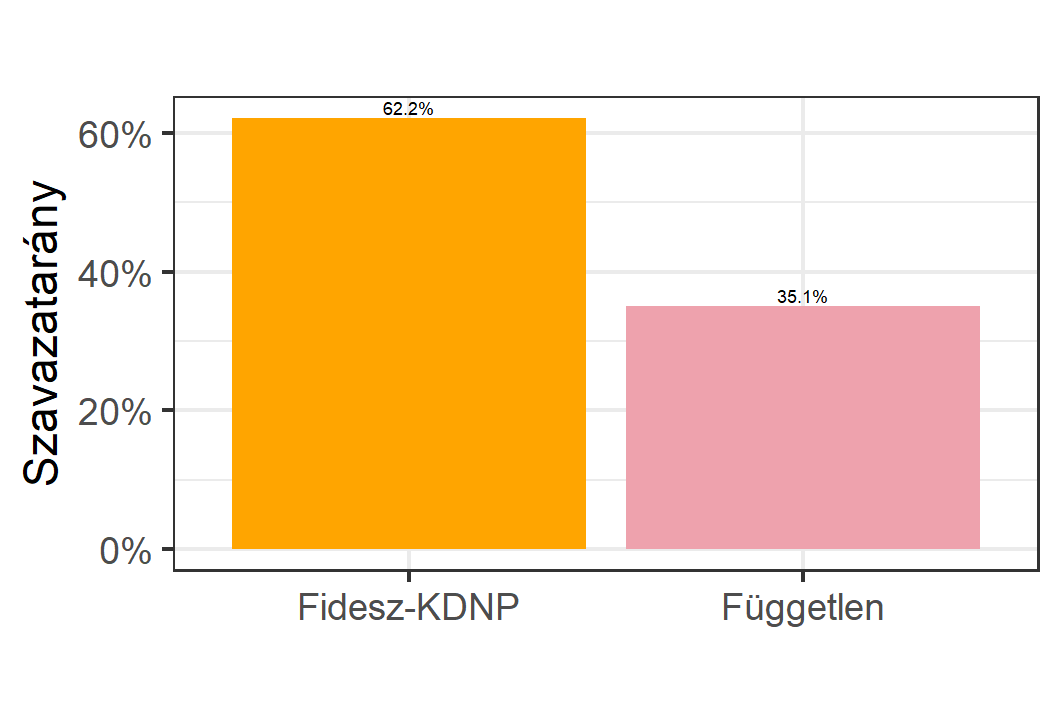
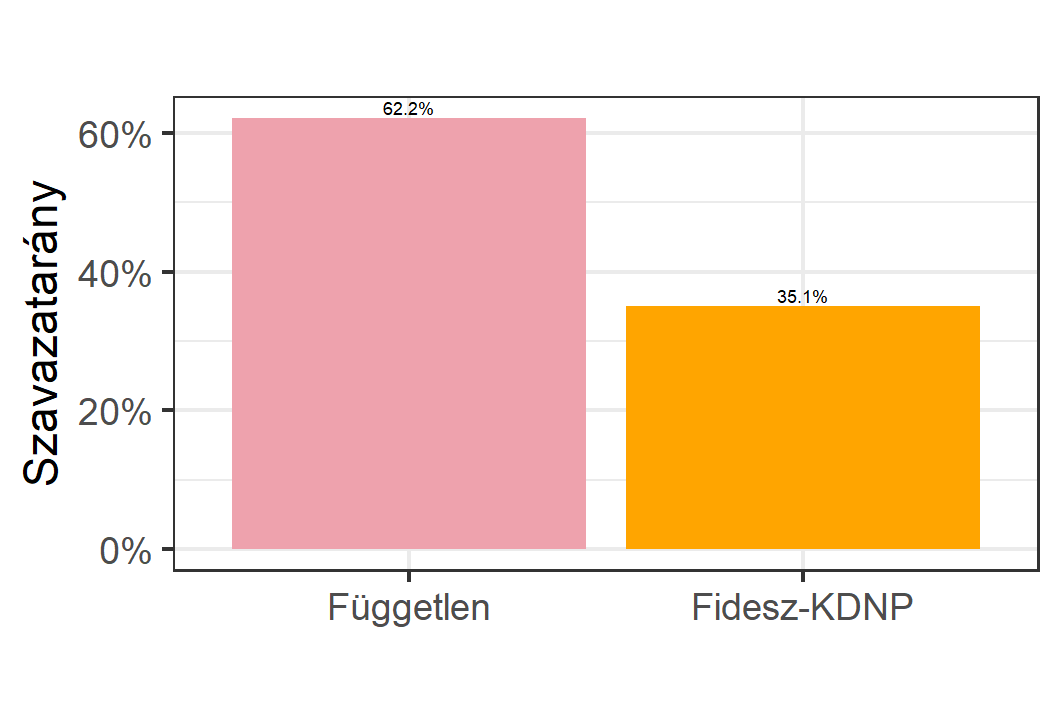
siofok fix

diff --git a/_layouts/home.html b/_layouts/home.html
@@ -237,7 +237,7 @@ layout: default
 <tr class="orange accent-1"><td width="20%"><a href="../sarvar">Sárvár</td><td width="40%">Kondora István - Fidesz-KDNP</td><td>6</td><td>2</td></tr>
 <tr class="orange accent-1"><td width="20%"><a href="../satoraljaujhely">Sátoraljaújhely</td><td width="40%">Szamosvölgyi Péter István - Fidesz-KDNP</td><td>8</td><td>0</td></tr>
 <tr class="pink lighten-5"><td width="20%"><a href="../siklos">Siklós</td><td width="40%">Dr. Marenics János - Független</td><td>4</td><td>4</td></tr>
-<tr class="orange accent-1"><td width="20%"><a href="../siofok">Siófok</td><td width="40%">Dr. Balázs Árpád - Fidesz-KDNP</td><td>7</td><td>1</td></tr>
+<tr class="pink lighten-5"><td width="20%"><a href="../siofok">Siófok</td><td width="40%">Dr. Balázs Róbert - Független</td><td>7</td><td>1</td></tr>
 <tr class="orange accent-1"><td width="20%"><a href="../solymar">Solymár</td><td width="40%">Dr. Szente Kálmán - Fidesz-KDNP</td><td>8</td><td>0</td></tr>
 <tr class="orange accent-1"><td width="20%"><a href="../szarvas">Szarvas</td><td width="40%">Babák Mihály - Fidesz-KDNP</td><td>7</td><td>1</td></tr>
 <tr class="deep-purple lighten-4"><td width="20%"><a href="../szazhalombatta">Százhalombatta</td><td width="40%">Vezér Mihály - ÉSZKE</td><td>2</td><td>6</td></tr>

diff --git a/siofok.md b/siofok.md
@@ -26,13 +26,13 @@ permalink: /siofok
               <tbody>
              <tr>
                    <td>Dr. Balázs Árpád - Fidesz-KDNP <img src="images/fideszkdnp_logo.png" style="width:55px;height:30px;"></td>
-				   <td id="fidesz_mayor">62.2%</td>
-				   <td id="fidesz_mayor2">5,982</td>
+				   <td id="fidesz_mayor">35.1%</td>
+				   <td id="fidesz_mayor2">3,374</td>
 			</tr>
 			<tr>
 			<td>Dr. Lengyel Róbert - Független</td> 
-			<td id="ellenzek_mayor">35.1%</td>
-			<td id="ellenzek_mayor2">3,374</td>
+			<td id="ellenzek_mayor">62.2%</td>
+			<td id="ellenzek_mayor2">5,982</td>
 			</tr>
               </tbody>
             </table>
